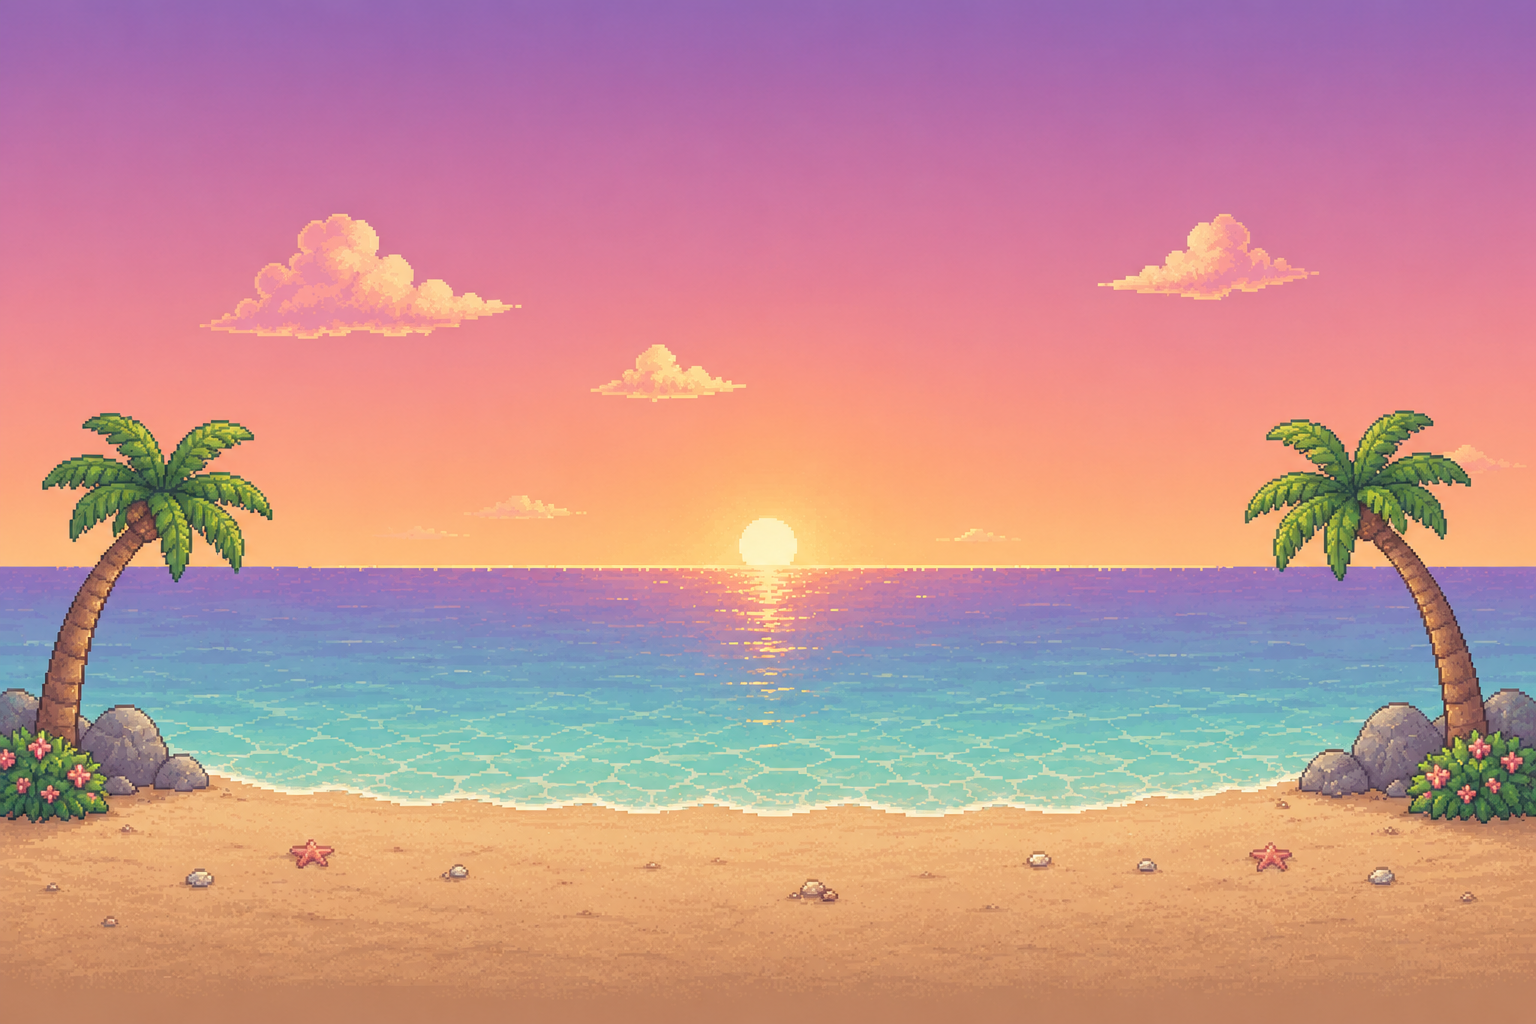
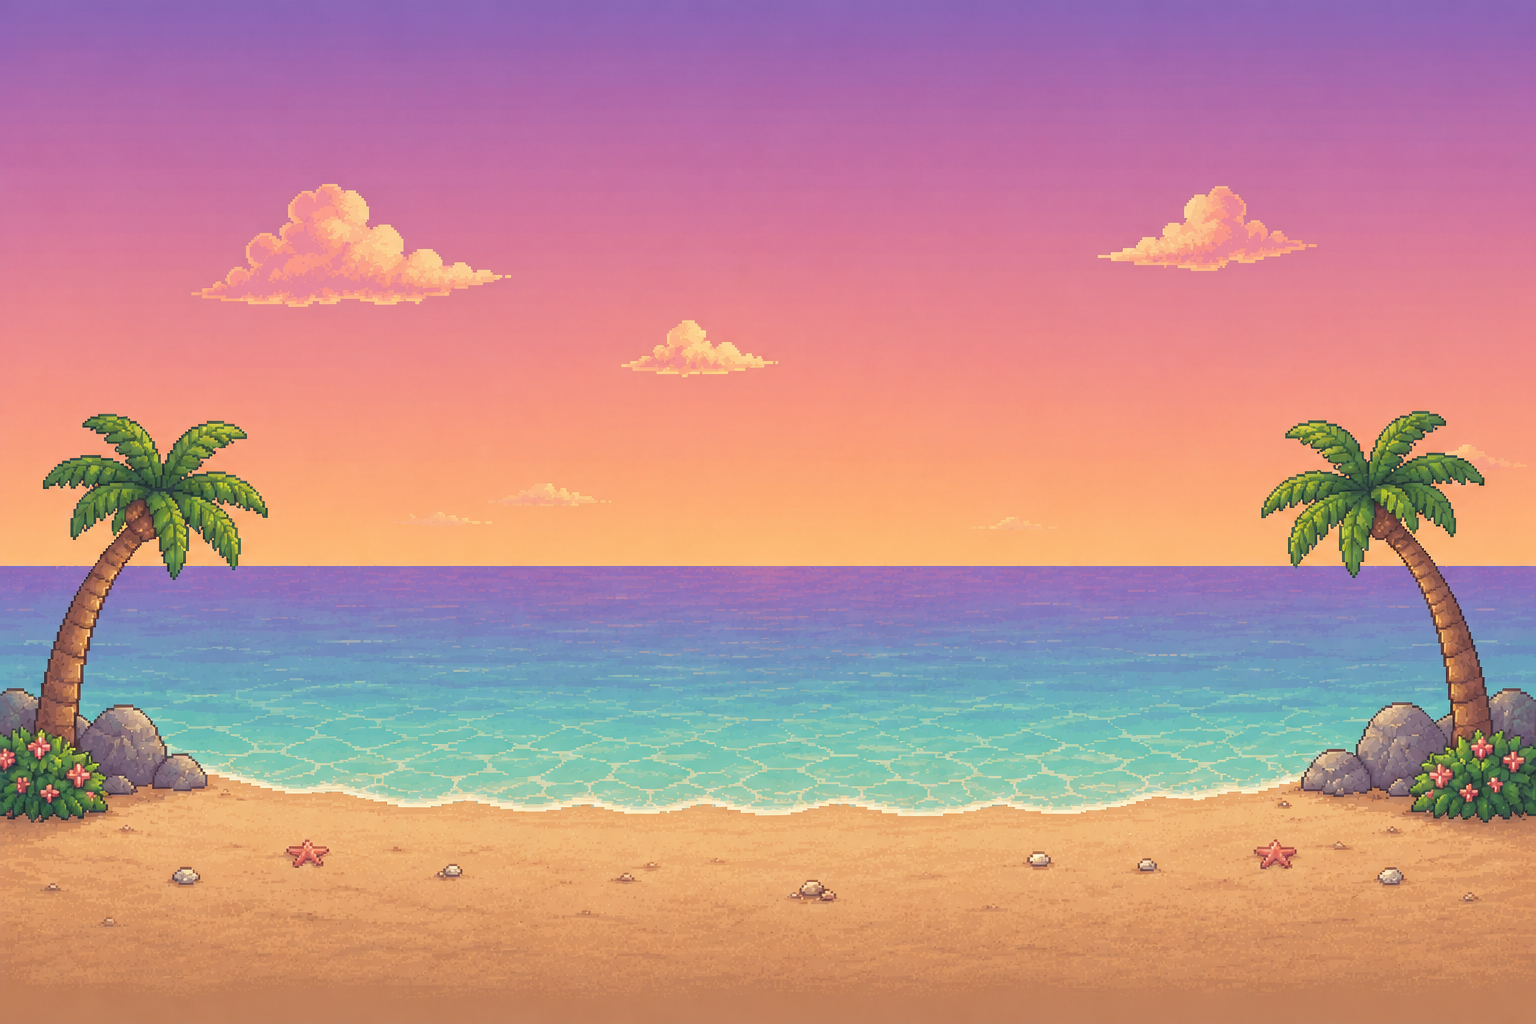
fix: bg_stage4 배경 이미지 교체 및 sw.js v29 업데이트

diff --git a/sw.js b/sw.js
@@ -1,4 +1,4 @@
-const CACHE = 'marine-marine-v28';
+const CACHE = 'marine-marine-v29';
 
 const PRECACHE = [
   './',